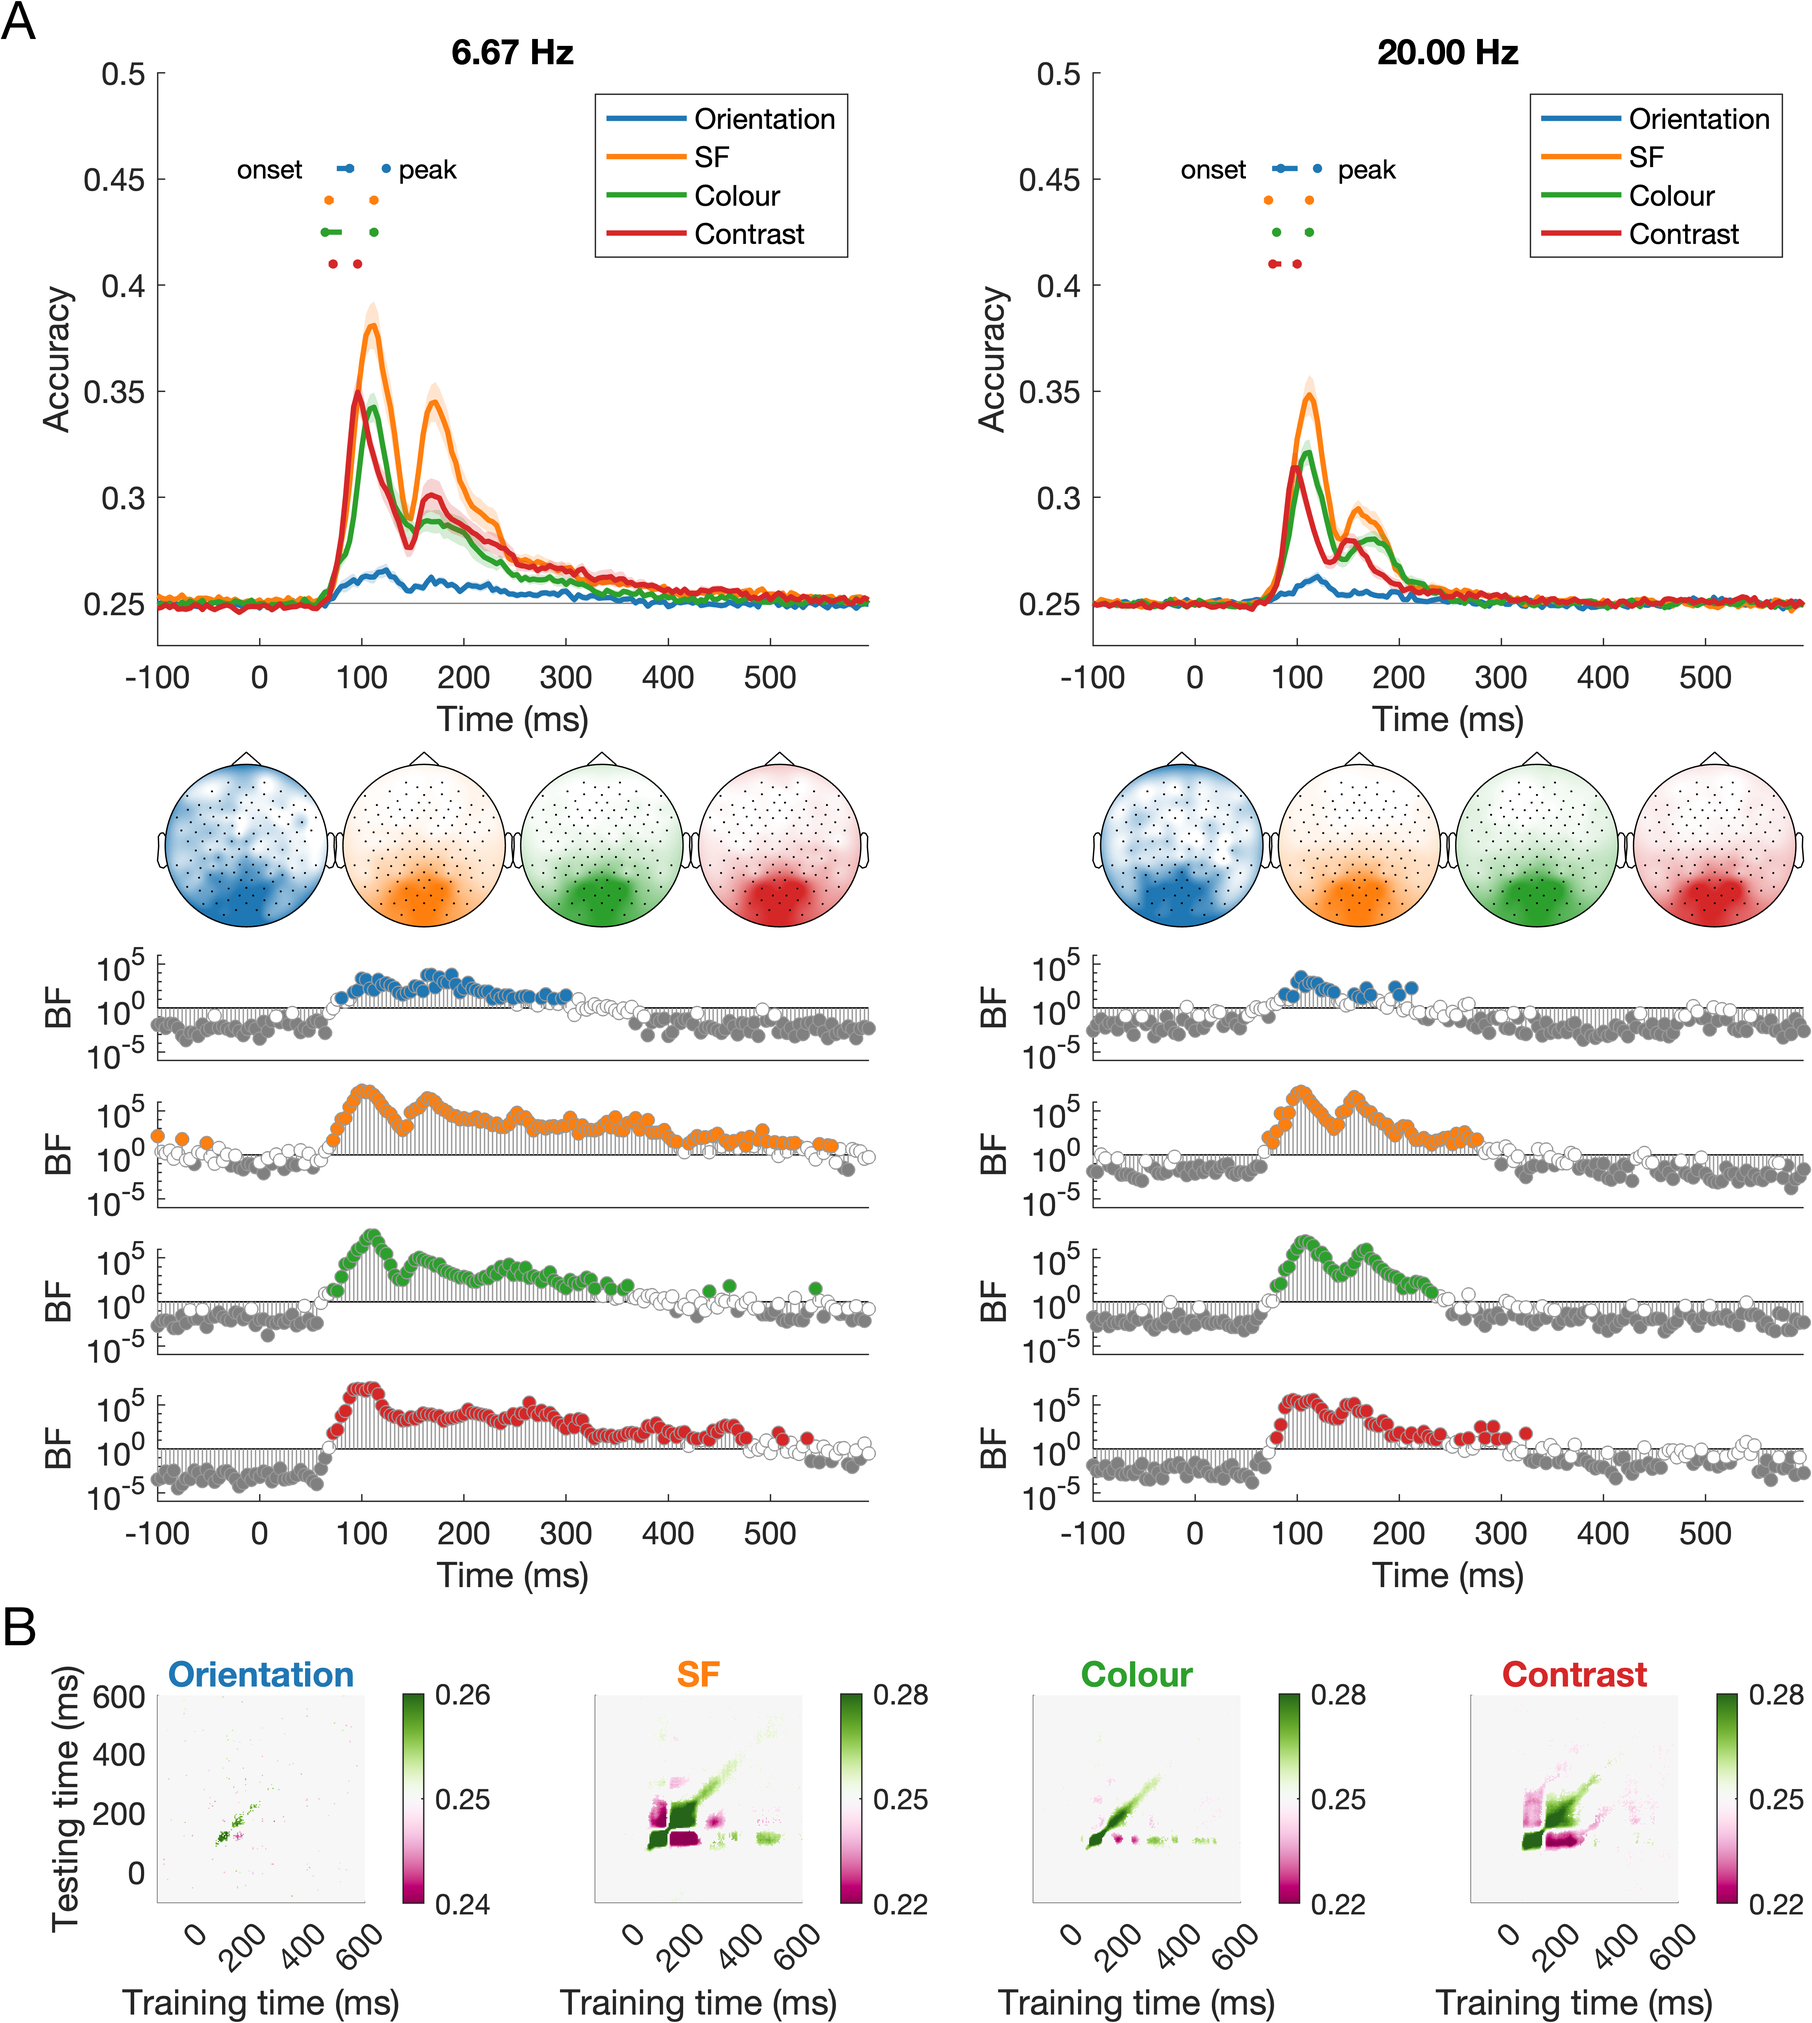
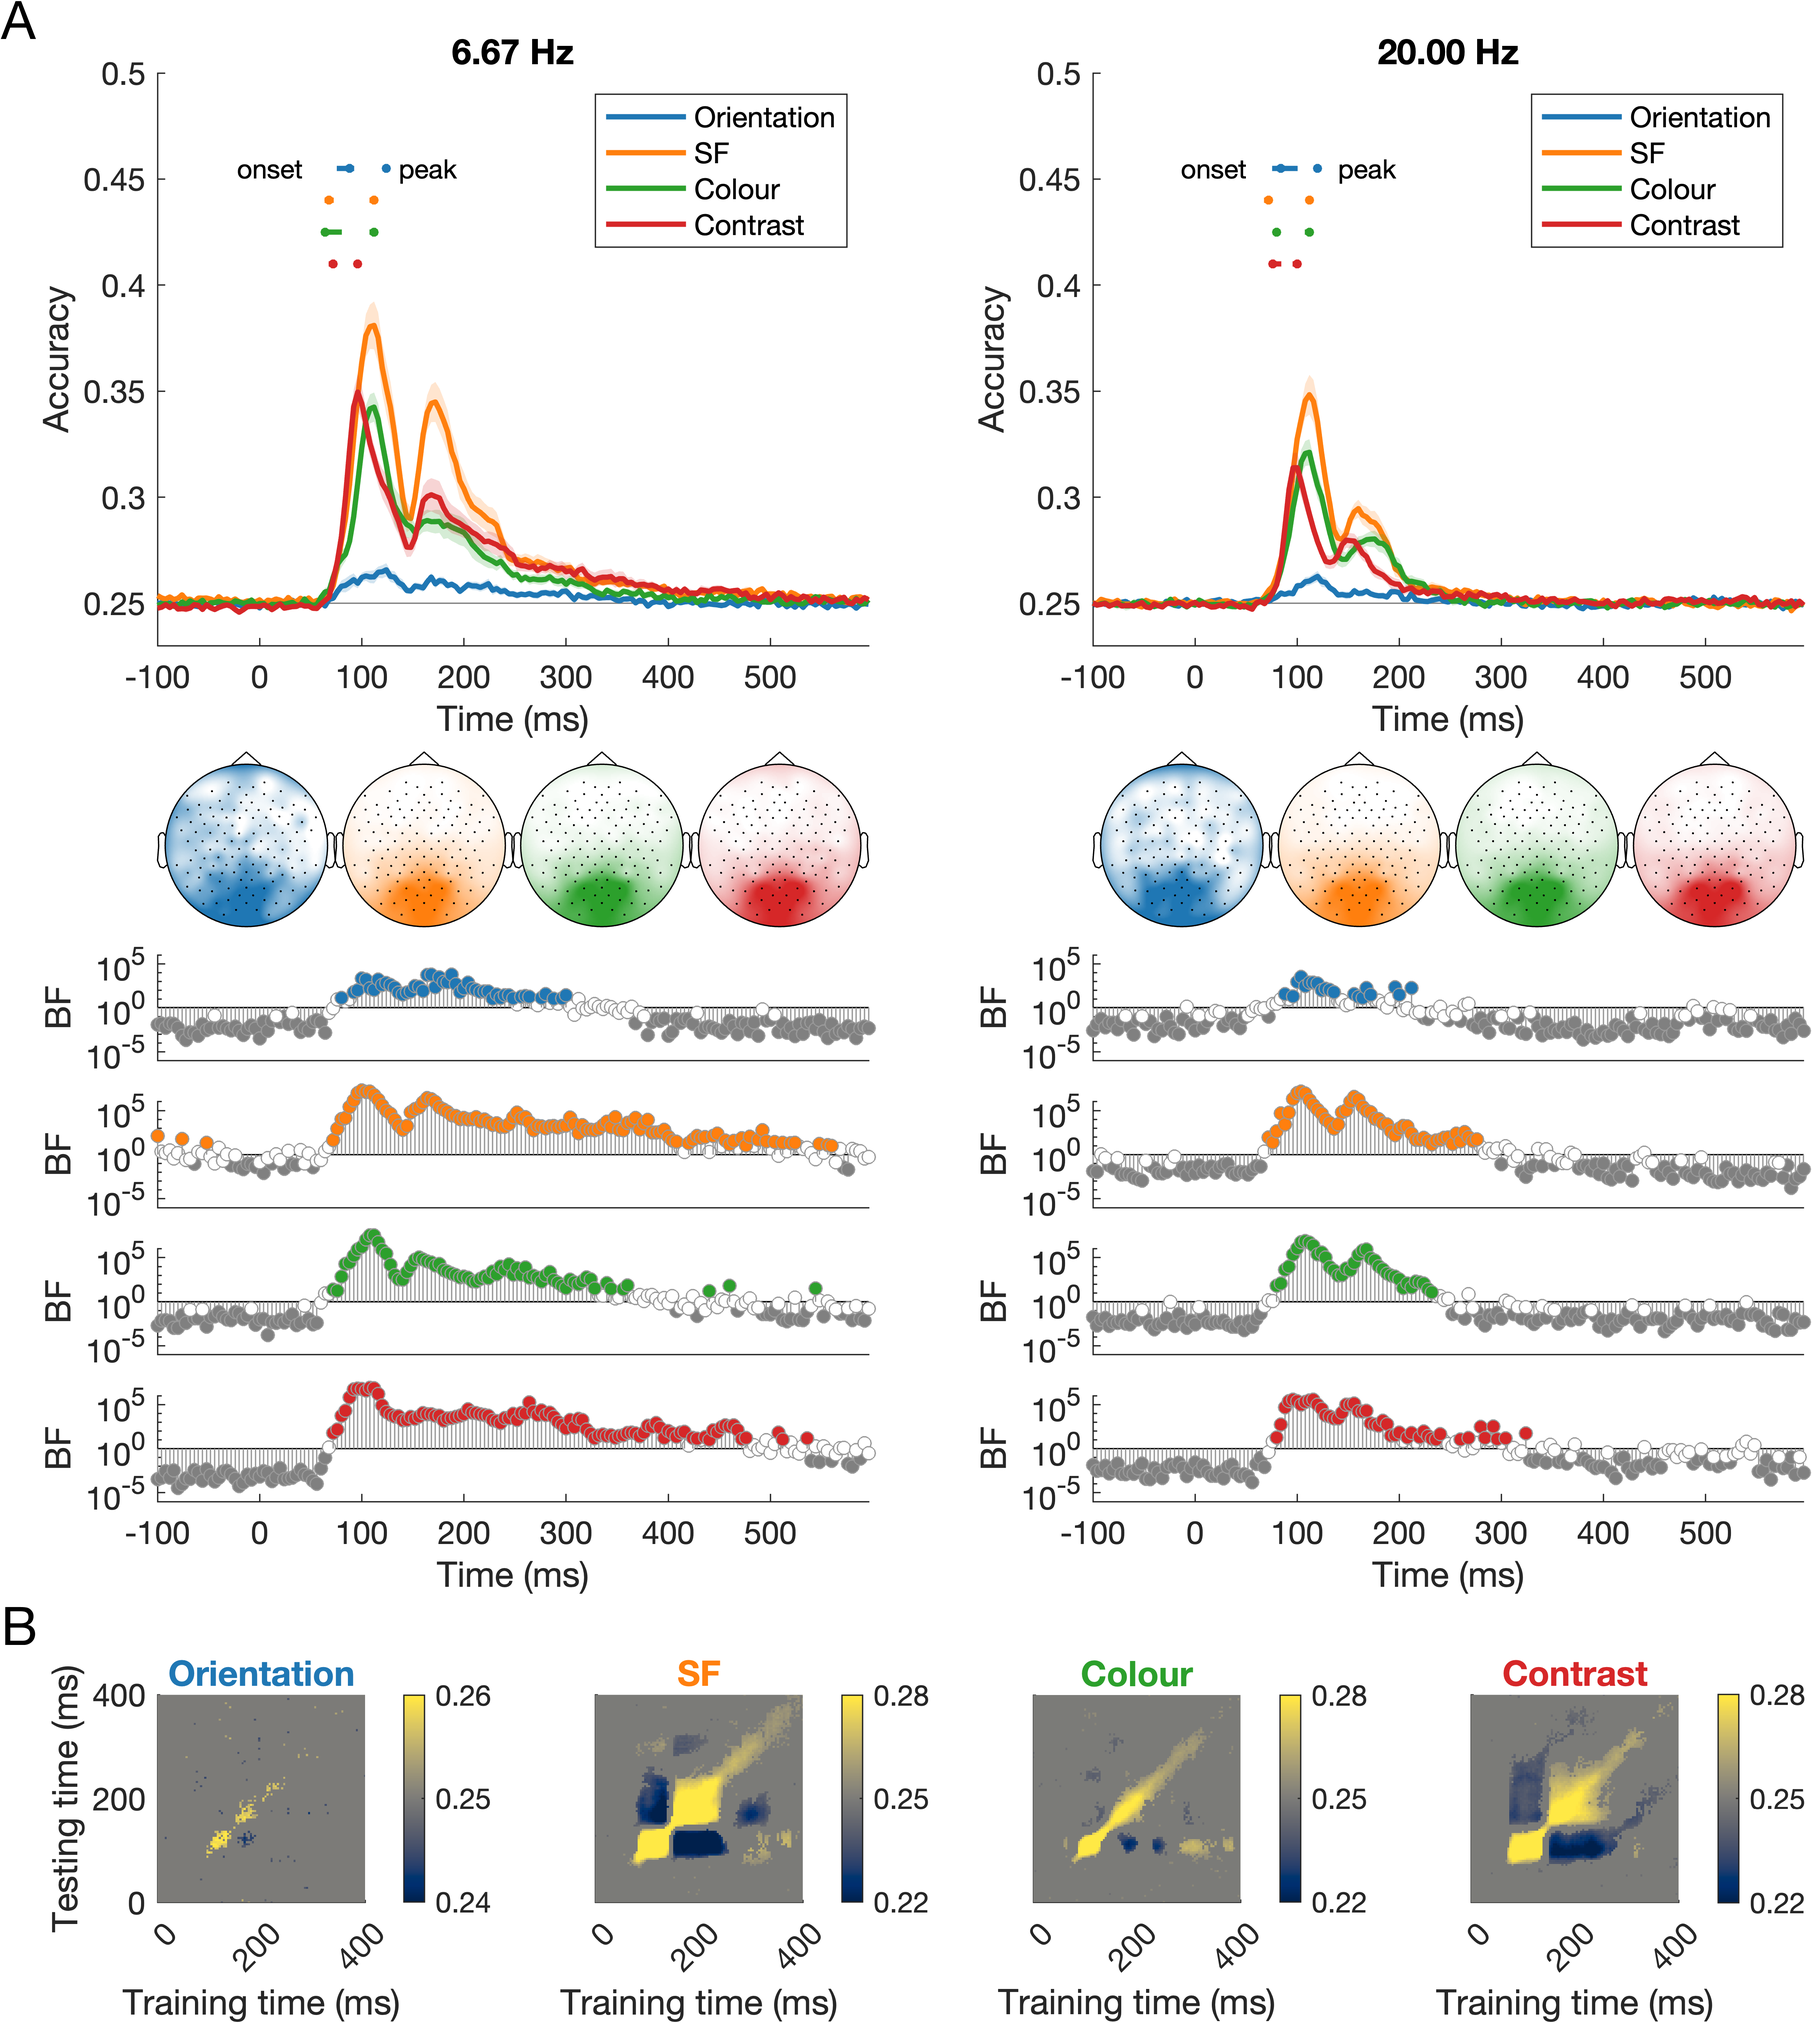
zoom

diff --git a/code/plot_decoding.m b/code/plot_decoding.m
@@ -1,5 +1,5 @@
 %% add paths
-addpath('~/Repository/CommonFunctions/Matplotlibcolors2/')
+addpath('~/Repository/CommonFunctions/matplotlib/')
 addpath('~/CoSMoMVPA/mvpa/')
 addpath('~/fieldtrip');
 
@@ -9,7 +9,7 @@ ft_defaults;
 
 res_cell = {};
 for s=1:16
-    x=load(sprintf('results/sub-%02i_decoding_searchlight.mat',s));
+    x=load(sprintf('../results/sub-%02i_decoding_searchlight.mat',s));
     res_cell{s} = x.res;
 end
 res_searchlight = cosmo_fx(cosmo_stack(res_cell),@mean,{'soaduration','targetfeature'});
@@ -22,7 +22,7 @@ cfg={};
 ft = ft_timelockanalysis(cfg,cosmo_map2meeg(res_searchlight));
 
 %% plot
-load('results/stats_decoding.mat')
+load('../results/stats_decoding.mat')
 
 f=figure(1);clf
 f.Position = [f.Position(1:2) 800 1000];
@@ -31,6 +31,7 @@ targetlabels = {'ori','sf','color','contrast'};
 targetlabelsplot = {'Orientation','SF','Colour','Contrast'};
 
 tv = stats.timevect;
+ha=[];
 for d=1:2
     clear a
     a=subplot(3,2,d);hold on
@@ -38,9 +39,9 @@ for d=1:2
     a.FontSize=12;
     % chance line
     plot([min(tv) max(tv)],[.25 .25],'Color',[.5 .5 .5])
-    co = tab10;%vega10;
+    co = tab10; %vega10;
     for t=1:4
-        
+
         % plot decoding and standard error
         s = stats.(durations{d}).(targetlabels{t});
         fill([tv fliplr(tv)],[s.mu-s.se fliplr(s.mu+s.se)],co(t,:),...
@@ -48,24 +49,24 @@ for d=1:2
         h(t) = plot(tv,s.mu,...
             'DisplayName',targetlabelsplot{t},'Color',co(t,:),...
             'LineWidth',2);
-        
+
         % plot onset and peak CIs
         yval = 0.47-t*.015;
         plot([s.onset s.peak],[yval yval],'.','Color',co(t,:),'MarkerSize',12)
         line(s.onsetci+[-.5 .5],[yval yval],'Color',co(t,:),'LineWidth',2)
         line(s.peakci+[-.5 .5],[yval yval],'Color',co(t,:),'LineWidth',2)
         drawnow
-        
+
     end
     text(min(s.onsetci)-90,0.47-.015,'onset')
     text(max(s.peakci)+40,0.47-.015,'peak')
-    
+
     legend(h)
     ylabel('Accuracy')
     xlabel('Time (ms)')
     xlim(minmax(tv))
     title(sprintf('%.2f Hz',1000/str2double(durations{d}(4:end))))
-    
+
     %topo
     a1=subplot(15,2,11+(d==2));hold on
     axis off
@@ -73,11 +74,11 @@ for d=1:2
         s = stats.(durations{d}).(targetlabels{t});
         [~,tidx] = max(s.mu);
         x = res_searchlight.samples(res_searchlight.sa.targetfeature==t & res_searchlight.sa.d==d,res_searchlight.fa.time==tidx);
-        
+
         ft.avg(:,:) = repmat(x',1,size(ft.avg,2));
-        
+
         mrange = prctile(x,[5 95]);
-        
+
         a1pos = a1.Position;
         aw = a1pos(3);
         aw2 = aw/4;
@@ -92,6 +93,8 @@ for d=1:2
         cfg.xlim = tv([tidx tidx+1]);
         cfg.layout = layout;
         cfg.showscale = 'no';
+        cfg.figure = a;
+        cfg.interactive ='no';
         cfg.comment = 'no';
         cfg.markersymbol = '.';
         cfg.style = 'straight';
@@ -101,9 +104,9 @@ for d=1:2
         a.FontSize = 12;
         a.Colormap = co3;
         set(a.Children,'LineWidth',.5)
-        drawnow
+        ha(t,d)=a;
     end
-    
+
     %bf
     for t=1:4
         a=subplot(15,2,11 + 2*t + (d==2));hold on
@@ -132,12 +135,21 @@ for d=1:2
         end
     end
 end
+for d=1:2
+    for t=1:4
+        co3 = [linspace(1,co(t,1),100);...
+            linspace(1,co(t,2),100);...
+            linspace(1,co(t,3),100)]';
+        set(ha(t,d),'Colormap',co3);
+    end
+end
 
 %% timegens
 
-load('results/stats_timegen.mat')
+load('../results/stats_timegen.mat')
 
-cmap = brewermap(1000,'PiYG');
+%cmap = brewermap(1000,'PiYG');
+cmap = cividis();
 
 timv = stats.timevect;
 timerv = fliplr(timv);
@@ -148,27 +160,28 @@ ts = [0.24 0.26; .22 .28; .22 .28; .22 .28]; % scales
 
 for d= 1
     for f = 1:length(targetlabels)
-        
+
         a=subplot(7,4,20+f);hold on
-        
+
         dat = stats.(durations{d}).(targetlabels{f});
         mu = reshape(dat.mu,length(timv),length(timv));
         bf = reshape(dat.bf,length(timv),length(timv));
         mu(bf<10) = .25;
-        
+
         %%% plot time gen decoding
         ax=imagesc(timv,timv,(mu),ts(f,:));
         colormap(gca,cmap)
         set(gca,'YDir','normal')
         cb=colorbar();
         cb.Ticks = [ts(f,1) 0.25 ts(f,2)];
-
+        xlim([0 400])
+        ylim([0 400])
         set(gca,'XTick',[0:200:400 max(timv)],'XTickLabel',num2cell(xlab));
         set(gca,'YTick',[0:200:400 max(timv)],'YTickLabel',num2cell(xlab));
         if f>1
             set(gca,'YTickLabel',[])
         end
-        
+
         xlabel('Training time (ms)');
         if f ==1
             ylabel('Testing time (ms)');
@@ -176,11 +189,11 @@ for d= 1
         axis square
         title(targetlabelsplot{f},'Color',co(f,:))
         set(gca,'Fontsize',12)
-        
+
     end
 end
 
-%% annotate and save
+%% annotate
 
 annotation('textbox',[0.05 .86 .1 .1],...
     'String','A','FontSize',20,'LineStyle','none')
@@ -188,7 +201,8 @@ annotation('textbox',[0.05 .86 .1 .1],...
 annotation('textbox',[0.05 .255 .1 .1],...
     'String','B','FontSize',20,'LineStyle','none')
 
-fn = 'figures/Figure2';
+%% save
+fn = '../figures/Figure2';
 print(gcf,'-dpng','-r500',fn)
 im=imread([fn '.png']);
 [i,j]=find(mean(im,3)<255);margin=2;
